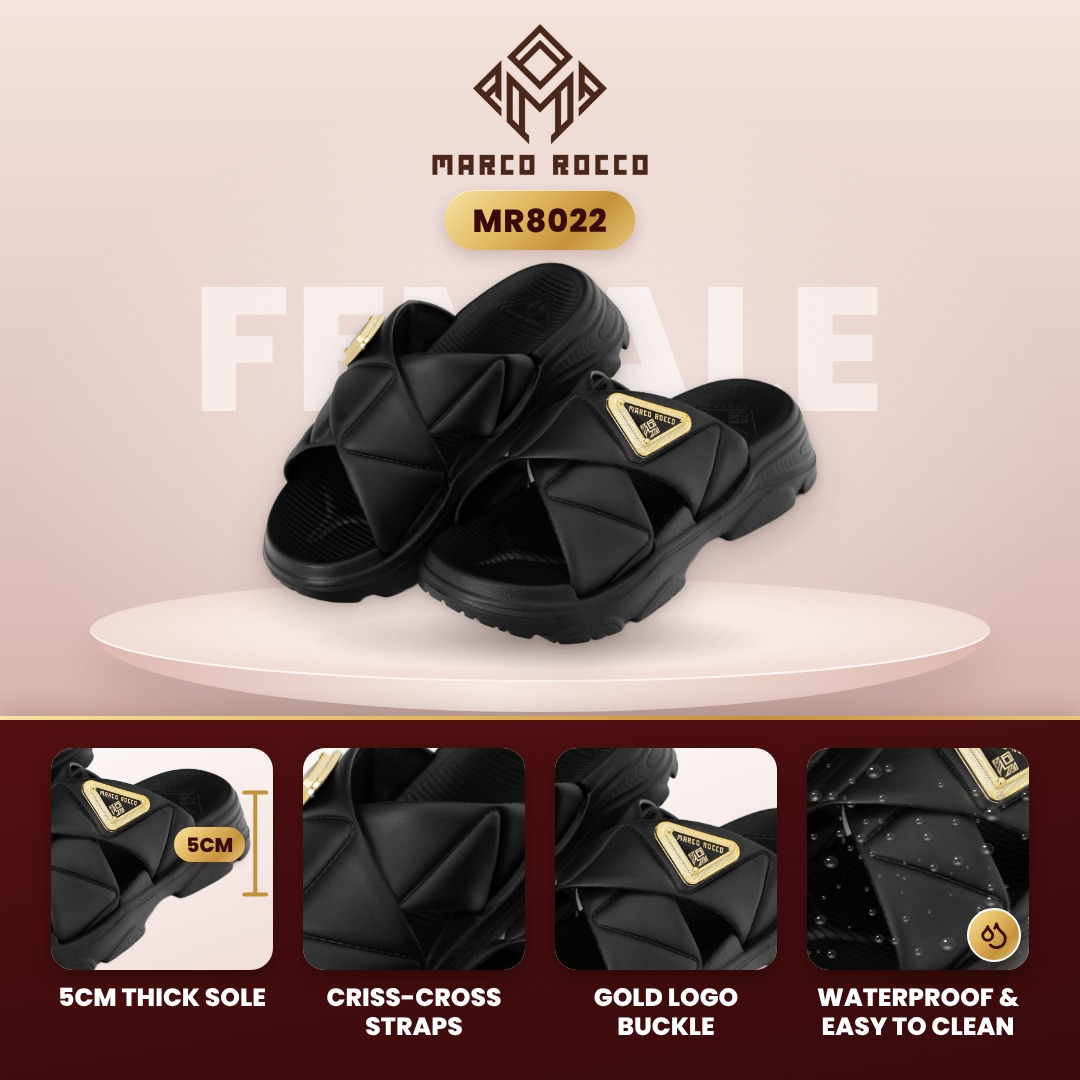
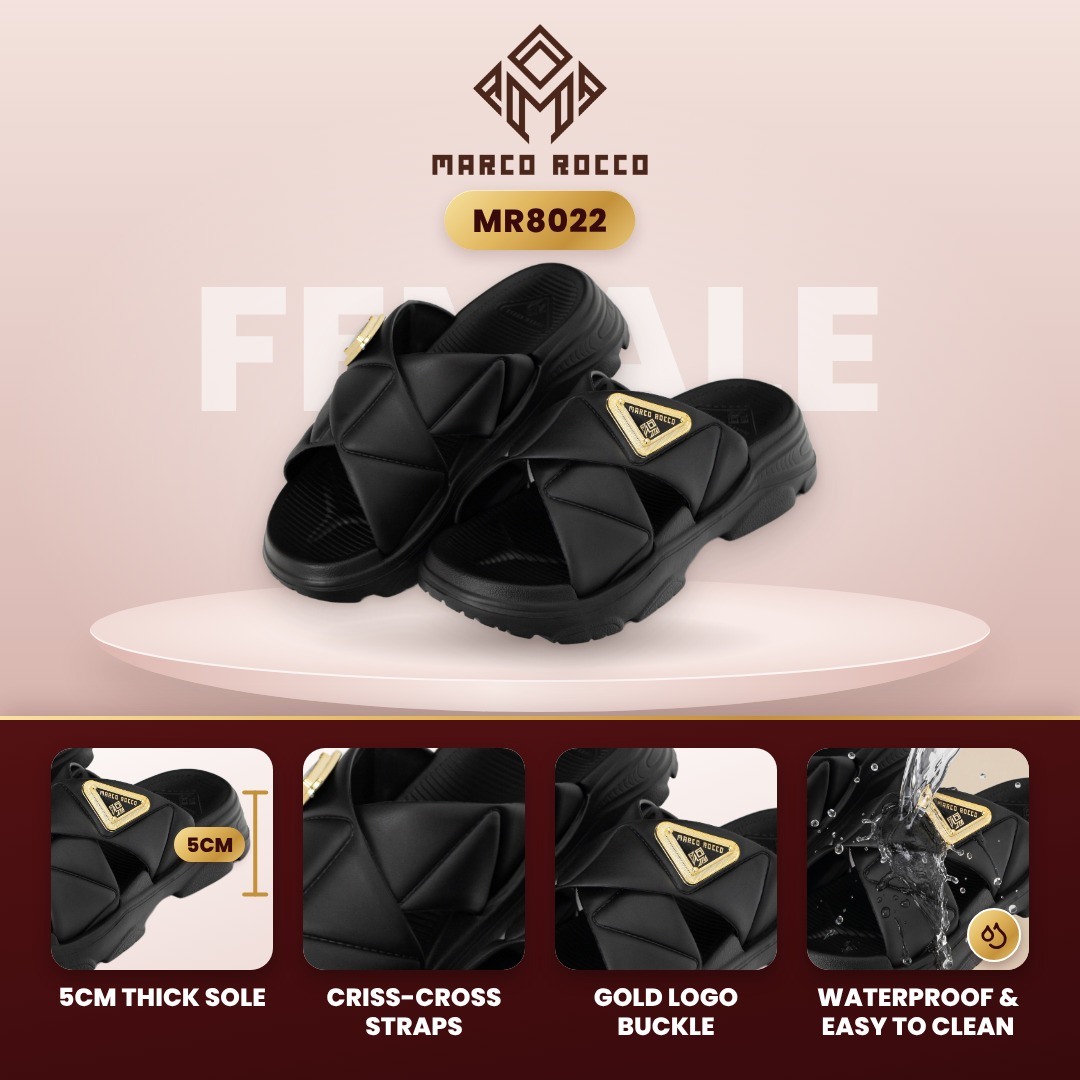
Photo scene tiles for MR8012, MR8030, MR8035 and MR8022
Hand pressing the footbed, natural running water, a durian, a feather and the
outsole on a wet floor, made with Nano Banana Pro from the real product photos.
The MR8030 feather scene keeps the real product pixels.

Claude-Session: https://claude.ai/code/session_01TQXEdB2Vd7QSkryHtwqbJX

Changed region(s): [[0.7333, 0.6722, 0.9778, 0.9167]]

diff --git a/marco-rocco-usp/data/usp2.js b/marco-rocco-usp/data/usp2.js
@@ -11,6 +11,8 @@
 //     height h standing on the product's lowest point, or from y1 to y2),
 //     {arrow: [x1, y1, x2, y2, bend]} (slip-on), {press: [x, y]} (soft), {swap: [x, y]} (2-in-1),
 //     {charms: [[x, y, kind], ...]}; all positions are fractions of the tile.
+// scene: '<NAME>' = a photo scene instead of the zoom (scenes/tiles/<NAME>.jpg, made from the real product photo
+//     with Nano Banana Pro: hand pressing, natural water, sole on a wet floor...); crop: [cx, cy, f] of it.
 // icon: small gold badge in the tile corner (layout A).
 // b: overrides for the round zoom in layout B. A / B: layout options (hero box, B connector anchors).
 
@@ -18,10 +20,10 @@ const drops = { fx: ['drops'], icon: 'droplets' };
 
 window.MODELS2 = [
   { id: 'MR8012', gender: 'unisex', usps: [
-    { label: 'Wave pattern design', view: [.40, .30, .24] },
-    { label: 'Anti-slip sole', view: [.62, .873, .34], floor: .78, icon: 'footprints' },
-    { label: 'Soft & cushioned', view: [.47, .58, .28], fx: [{ press: [.48, .6] }], icon: 'cloud' },
-    { label: 'Waterproof & easy to clean', view: [.22, .20, .28], ...drops },
+    { label: 'Wave pattern design', scene: 'MR8012_1', crop: [.55, .5, .86] },
+    { label: 'Anti-slip sole', scene: 'MR8012_2', crop: [.56, .5, .88], icon: 'footprints' },
+    { label: 'Soft & cushioned', scene: 'MR8012_3', crop: [.6, .46, .82], icon: 'cloud' },
+    { label: 'Waterproof & easy to clean', scene: 'MR8012_4', crop: [.5, .45, .9], icon: 'droplets' },
   ] },
   { id: 'MR8013', gender: 'unisex', usps: [
     { label: 'Boost height 4cm+', view: [.76, .80, .36], bottom: .9, fx: [{ measure: { x: .9, h: .32, text: '4CM+', tagLeft: true } }] },
@@ -57,7 +59,7 @@ window.MODELS2 = [
     { label: '5cm thick sole', view: [.80, .60, .50], fx: [{ measure: { x: .92, y1: .2, y2: .66, text: '5CM', tagLeft: true } }] },
     { label: 'Criss-cross straps', view: [.32, .35, .30] },
     { label: 'Gold logo buckle', view: [.64, .44, .40] },
-    { label: 'Waterproof & easy to clean', view: [.58, .62, .30], ...drops },
+    { label: 'Waterproof & easy to clean', scene: 'MR8022_4', icon: 'droplets' },
   ] },
   { id: 'MR8024', gender: 'female', usps: [
     { label: 'Waterproof boot', view: [.26, .45, .40], ...drops },
@@ -92,10 +94,10 @@ window.MODELS2 = [
     { label: 'Waterproof & easy to clean', view: [.85, .60, .28], ...drops },
   ] },
   { id: 'MR8030', gender: 'female', usps: [
-    { label: 'Durian pattern', view: [.42, .38, .28] },
-    { label: 'Non-slip sole', view: [.62, .84, .36], floor: .8, icon: 'footprints' },
-    { label: 'Soft & cushioned', view: [.54, .76, .34], fx: [{ press: [.5, .55] }], icon: 'cloud' },
-    { label: 'Lightweight', float: true, icon: 'feather' },
+    { label: 'Durian pattern', scene: 'MR8030_1' },
+    { label: 'Non-slip sole', scene: 'MR8030_2b', crop: [.53, .5, .86], icon: 'footprints' },
+    { label: 'Soft & cushioned', scene: 'MR8030_3', crop: [.6, .55, .86], icon: 'cloud' },
+    { label: 'Lightweight', scene: 'MR8030_4b', crop: [.5, .46, .8], icon: 'feather' },
   ] },
   { id: 'MR8031', gender: 'unisex', usps: [
     { label: 'Non-slip & breathable', view: [.18, .55, .36], icon: 'footprints' },
@@ -124,8 +126,8 @@ window.MODELS2 = [
   { id: 'MR8035', gender: 'male', usps: [
     { label: '4cm thick sole', view: [.82, .78, .38], bottom: .9, fx: [{ measure: { x: .92, h: .35, text: '4CM', tagLeft: true } }] },
     { label: 'Modern masculine look', view: [.24, .50, .55], icon: 'shirt' },
-    { label: 'Non-slip sole', view: [.50, .805, .42], floor: .8, icon: 'footprints' },
-    { label: 'Waterproof & easy to clean', view: [.24, .30, .32], ...drops },
+    { label: 'Non-slip sole', scene: 'MR8035_3', crop: [.46, .46, .86], icon: 'footprints' },
+    { label: 'Waterproof & easy to clean', scene: 'MR8035_4', icon: 'droplets' },
   ] },
 ];
 

diff --git a/marco-rocco-usp/template/usp2.html b/marco-rocco-usp/template/usp2.html
@@ -149,6 +149,15 @@
     const src = `../${m.photo}`;
     let html = '';
     let box;
+    if (v.scene) {
+      // photo scene made from the real product photo (hand pressing, natural water, sole on a wet floor...):
+      // scenes/tiles/<name>.jpg, square; crop [cx, cy, f] = centre and window width as fractions of it
+      const [cx, cy, f] = v.crop || [.5, .5, 1];
+      const iw = S / f;
+      html += `<img src="../scenes/tiles/${v.scene}.jpg" style="left:${S / 2 - cx * iw}px;top:${S / 2 - cy * iw}px;width:${iw}px;height:${iw}px">`;
+      if (v.icon) html += `<div class="badge">${icon(v.icon, 2.2)}</div>`;
+      return html;
+    }
     if (v.float) {
       // whole product, smaller, floating above a feather (lightweight)
       const k = Math.min(S * .8 / W, S * .48 / H);

diff --git a/marco-rocco-usp/tools/scene_tiles.py b/marco-rocco-usp/tools/scene_tiles.py
@@ -1,0 +1,38 @@
+"""Makes the USP scene tiles used by template/usp2.html (`scene: '<NAME>'` in data/usp2.js):
+scenes/out/<NAME>.png (Nano Banana Pro edits of the real-photo inputs in scenes/in/) -> scenes/tiles/<NAME>.jpg, 720px.
+
+For the scenes in PASTE, the real product pixels are put back on top of the AI picture: the cut-out
+scenes/in/<MODEL>_<colour>.png at its place in the input (scenes/in/place.json), aligned to the output by
+phase correlation. So there the product is exactly the photo and only the surroundings (feather, shadow) are AI.
+
+usage: python tools/scene_tiles.py
+"""
+import json
+import os
+
+import cv2
+import numpy as np
+from PIL import Image
+
+ROOT = os.path.join(os.path.dirname(__file__), '..')
+SC = os.path.join(ROOT, 'scenes')
+SIZE = 720
+PASTE = {'MR8030_4b': 'MR8030_taupe.png'}
+
+place = json.load(open(os.path.join(SC, 'in', 'place.json')))
+os.makedirs(os.path.join(SC, 'tiles'), exist_ok=True)
+for f in sorted(os.listdir(os.path.join(SC, 'out'))):
+    name = f[:-4]
+    out = Image.open(os.path.join(SC, 'out', f)).convert('RGB').resize((1024, 1024), Image.LANCZOS)
+    if name in PASTE:
+        p = place[name]
+        cut = Image.open(os.path.join(SC, 'in', PASTE[name])).convert('RGBA').resize((p['w'], p['h']), Image.LANCZOS)
+        inp = np.array(Image.open(os.path.join(SC, 'in', f)).convert('L'), np.float32)
+        ai = np.array(out.convert('L'), np.float32)
+        x0, y0, x1, y1 = p['x'] - 20, p['y'] - 20, p['x'] + p['w'] + 20, p['y'] + p['h'] + 20
+        win = cv2.createHanningWindow((x1 - x0, y1 - y0), cv2.CV_32F)
+        (dx, dy), resp = cv2.phaseCorrelate(inp[y0:y1, x0:x1], ai[y0:y1, x0:x1], win)
+        print(name, f'shift {dx:+.1f},{dy:+.1f} (response {resp:.2f})')
+        out.paste(cut, (round(p['x'] + dx), round(p['y'] + dy)), cut)
+    out.resize((SIZE, SIZE), Image.LANCZOS).save(os.path.join(SC, 'tiles', f'{name}.jpg'), quality=90)
+    print(name, 'ok')

diff --git a/marco-rocco-usp/README.md b/marco-rocco-usp/README.md
@@ -38,6 +38,18 @@ Each USP visual is a zoom into the real photo (`view: [cx, cy, f]`) with optiona
 - charms;
 - a floating product above a feather (lightweight).
 
+Some tiles are photo scenes instead (`scene: '<NAME>'`): MR8012 (all 4), MR8030 (all 4), MR8035 (non-slip,
+waterproof) and MR8022 (waterproof). These show a hand pressing the footbed, natural running water, a durian, a
+feather, or the outsole on a wet floor.
+
+1. `tools/scene_inputs.py` crops the real photo for each scene (`scenes/specs.json`) into `scenes/in/`.
+2. Nano Banana Pro adds the hand, water and so on, leaving the product as it is.
+3. The results are fetched into `scenes/out/` by the same workflow.
+4. `tools/scene_tiles.py` makes `scenes/tiles/<NAME>.jpg`. For the MR8030 feather scene it also pastes the
+   real product pixels back on top.
+
+There are no photos of the outsoles, so the soles in the non-slip scenes are drawn by the AI.
+
 ## Product photos
 
 The cut-outs come from the designed main (BAU) images:
